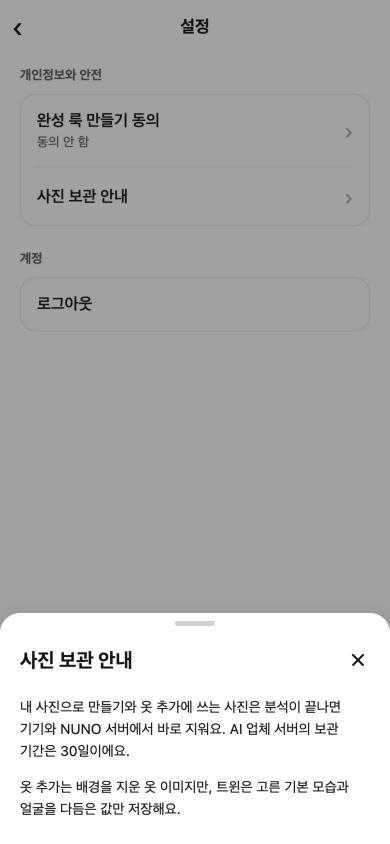
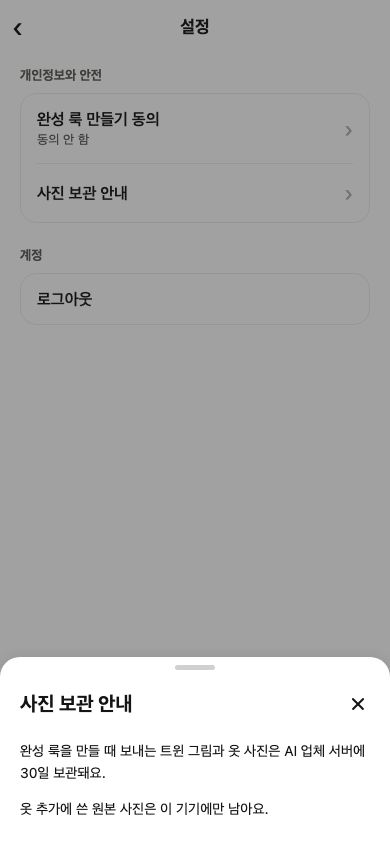
「사진 보관 안내」 시트 글을 와이어프레임 원문에서 plan 초안으로 바꿈
- 원문의 「분석이 끝나면 기기와 NUNO 서버에서 바로 지워요」, 「배경을 지운 옷 이미지만 저장해요」 는
  옷을 저장할 때 원본을 기기에 남기는 지금 앱과 달라 뺐다.
- 시트는 「완성 룩을 만들 때 보내는 트윈 그림과 옷 사진은 AI 업체 서버에 N일 보관돼요.」 와
  「옷 추가에 쓴 원본 사진은 이 기기에만 남아요.」 를 보인다. 기획자 확인 전 초안이다.
- 보관 기간을 못 읽으면 첫 문장 대신 「보관 기간을 불러오지 못했어요」 와 「다시 불러오기」 를 보인다.
- photo-retention.spec.ts 의 문구 단언과 머리 주석을 초안에 맞췄고 D34 스크린숏 셋을 다시 찍었다.

diff --git a/apps/mobile/app/settings.tsx b/apps/mobile/app/settings.tsx
@@ -137,12 +137,11 @@ export default function SettingsScreen() {
         title="사진 보관 안내"
         onClose={() => setSheet(null)}
       >
-        <Text style={styles.sheetText}>
-          내 사진으로 만들기와 옷 추가에 쓰는 사진은 분석이 끝나면 기기와 NUNO 서버에서 바로 지워요.
-          {retention.kind === "ready"
-            ? ` AI 업체 서버의 보관 기간은 ${retention.days}일이에요.`
-            : null}
-        </Text>
+        {retention.kind === "ready" ? (
+          <Text style={styles.sheetText}>
+            {`완성 룩을 만들 때 보내는 트윈 그림과 옷 사진은 AI 업체 서버에 ${retention.days}일 보관돼요.`}
+          </Text>
+        ) : null}
         {retention.kind === "loading" ? (
           <ActivityIndicator aria-label="보관 기간을 불러오는 중" color={INK} />
         ) : null}
@@ -154,9 +153,7 @@ export default function SettingsScreen() {
             </Pressable>
           </View>
         ) : null}
-        <Text style={styles.sheetText}>
-          옷 추가는 배경을 지운 옷 이미지만, 트윈은 고른 기본 모습과 얼굴을 다듬은 값만 저장해요.
-        </Text>
+        <Text style={styles.sheetText}>옷 추가에 쓴 원본 사진은 이 기기에만 남아요.</Text>
       </OverlaySheet>
       <ConfirmSheet
         visible={sheet === "signOut"}
